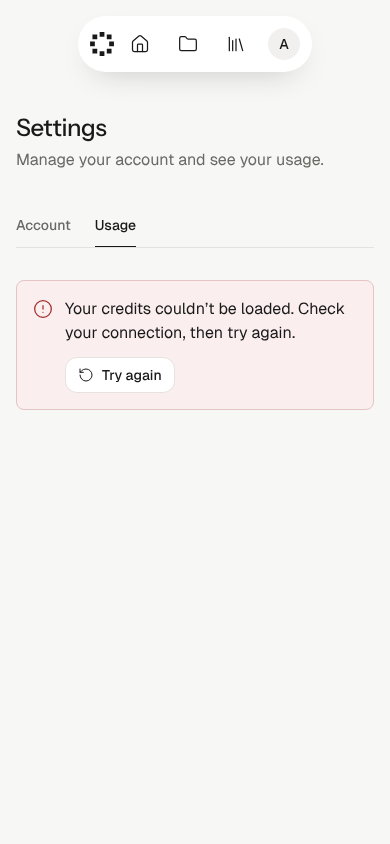
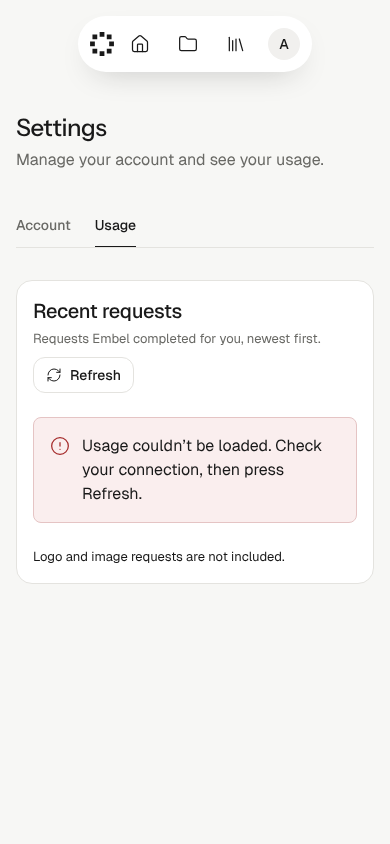
Redraw the Usage screens with the data the page shows today
The owner declined the credit ledger (D-036), so the Usage boards now show the
current recent-requests table restyled with the design system, in its loaded,
partly recorded, empty, loading and failed states.

Claude-Session: https://claude.ai/code/session_01572c2SUBVwKbuaGXLZJQ6s

diff --git a/design-assets/handoff.md b/design-assets/handoff.md
@@ -33,7 +33,7 @@ These change what the screens look like compared with the first round; the canva
 | 2 Credits and plans | Out of credits, in place (Logo step, logo types in the reply box) | D-014, D-015 |
 | 2 Credits and plans | Account menu with plan and balance | D-015 |
 | 2 Credits and plans | Plans | D-031, with D-033, D-066, D-076 |
-| 2 Credits and plans | Settings, Usage: credit ledger | D-036 declined by the owner: not built |
+| 2 Credits and plans | Settings, Usage: recent requests (today's data, restyled) | D-036 declined by the owner: no credit ledger |
 | 3 Brand conversation | Research running, failed, done | D-016 |
 | 3 Brand conversation | A finished brand, folded (with Inspiration reopened, brand menu) | D-021, D-054, D-061 |
 | 3 Brand conversation | Audience, Positioning, Personality and Slogan (desktop side chat; added November 13) | Strategy and Voice steps; no dedicated D- ID |
@@ -59,7 +59,7 @@ Part B items in `Design_AUDIT.md` section 6 that are not named on any canvas row
 
 
 - **D-024 deferred** (owner, Nov 14): the direction board can show a different logo from the chosen one. It is a generation-engine issue, outside this redesign; implementation changes nothing about it.
-- **D-036 declined** (owner, Nov 14): no credit ledger. The Usage boards on canvas page 2 show a ledger that will not be built; implementation restyles today's Usage page with the design system and keeps the data it shows now.
+- **D-036 declined** (owner, Nov 14): no credit ledger. The Usage boards on canvas page 2 were redrawn (Nov 14) to show today's data: "Recent requests" with step, date and tokens used, the Refresh button and the note that logo and image requests are not included. Implementation restyles that page and keeps its data.
 - **Audience, Positioning, Personality and Slogan** have desktop side-chat screens only; at 768 and 390 they follow the one-column conversation as in the current app.
 - **Name details checks:** only YouTube handles and the EU trademark register are checked live today; domain search across many extensions needs a bulk check from the domain provider, which also supplies the prices.
 
